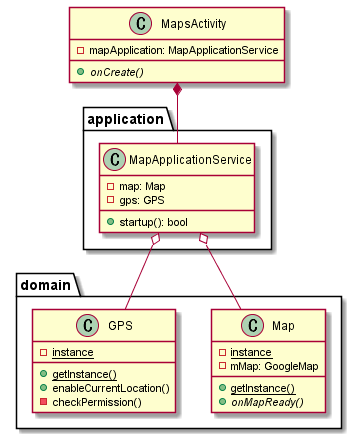
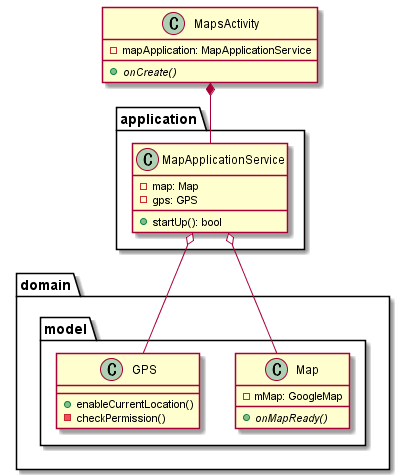
設計の微調整 #1

diff --git a/app/src/main/java/com/example/walky/MapsActivity.kt b/app/src/main/java/com/example/walky/MapsActivity.kt
@@ -7,6 +7,7 @@ import android.location.Location
 import androidx.appcompat.app.AppCompatActivity
 import android.os.Bundle
 import androidx.core.app.ActivityCompat
+import com.example.walky.application.MapApplicationService
 
 import com.google.android.gms.maps.CameraUpdateFactory
 import com.google.android.gms.maps.GoogleMap
@@ -27,6 +28,8 @@ class MapsActivity : AppCompatActivity(), OnMapReadyCallback, GoogleMap.OnMarker
     private lateinit var lastLocation: Location
     private lateinit var fusedLocationClient: FusedLocationProviderClient
 
+    private val mapApplication: MapApplicationService = MapApplicationService()
+
     companion object {
         private  const val LOCATION_REQUEST_CODE = 1
     }
@@ -44,6 +47,8 @@ class MapsActivity : AppCompatActivity(), OnMapReadyCallback, GoogleMap.OnMarker
          * getMapAsync()->fusedLocationClient作成->onMapReady()の順?
          */
         fusedLocationClient = LocationServices.getFusedLocationProviderClient(this)
+
+        mapApplication.startUp()
     }
 
     /**

diff --git a/docs/dev/Feature/F02/001/設計書.md b/docs/dev/Feature/F02/001/設計書.md
@@ -2,7 +2,7 @@
 
 ## インターフェース
 
-### MapApplicationService().startup()
+### MapApplicationService().startUp()
 
 #### 処理概要
 
